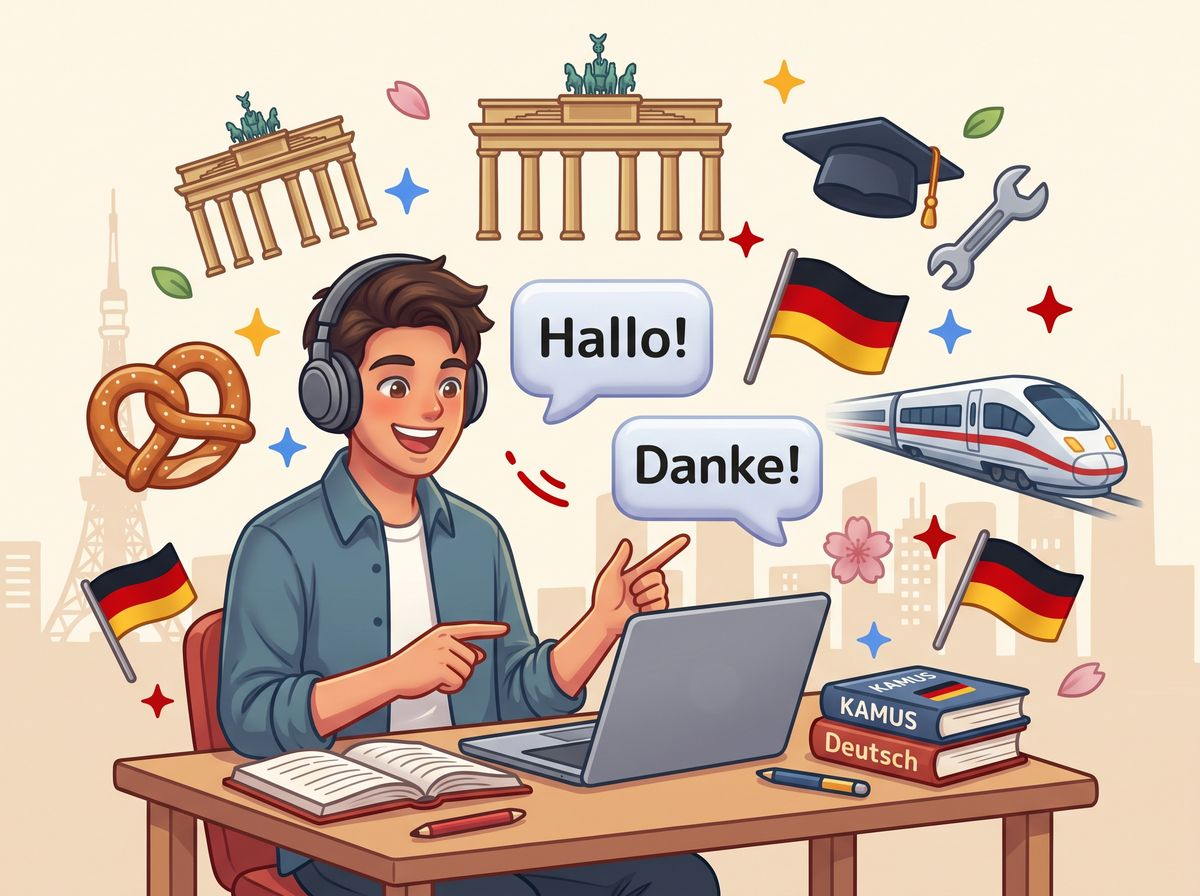
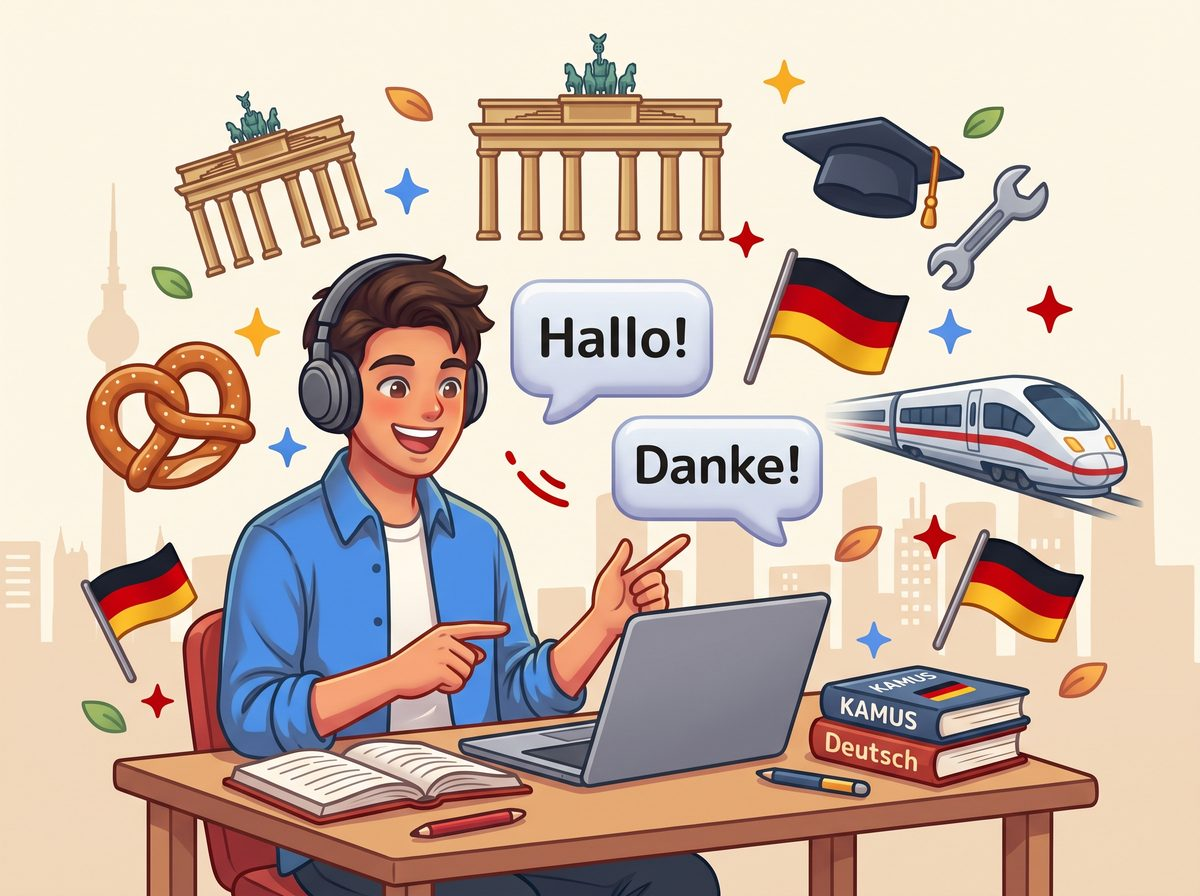
Ilustrasi baru: hero lebar di beranda, jalur ke Jepang, kurikulum, bidang kerja, persyaratan, paket rekaman, Jerman
Claude-Session: https://claude.ai/code/session_01DAJS4H1LZpkXpMjoxdFLH5

diff --git a/src/app/(site)/page.tsx b/src/app/(site)/page.tsx
@@ -37,9 +37,18 @@ const journey = [
 export default function Home() {
   return (
     <>
-      <section className="overflow-hidden bg-gradient-to-b from-red-50 via-white to-white">
-        <div className="mx-auto grid max-w-6xl items-center gap-10 px-4 py-12 sm:py-16 lg:grid-cols-[1fr_1.1fr]">
-          <div>
+      {/* Ilustrasi lebar: sisi kiri gambar kosong, jadi di layar lebar teks ditaruh di atasnya. */}
+      <section className="relative overflow-hidden bg-[#fff8ed]">
+        <Image
+          src={withBase("/images/hero-wide.jpg")}
+          alt="Ilustrasi tiga anak muda Indonesia belajar bahasa Jepang bersama lewat laptop dan HP"
+          width={1600}
+          height={893}
+          priority
+          className="absolute inset-y-0 right-0 hidden h-full w-auto max-w-none lg:block"
+        />
+        <div className="relative mx-auto max-w-6xl px-4 py-12 sm:py-16 lg:py-28">
+          <div className="lg:max-w-[46%]">
             <p className="font-jp text-red-700">日本語を、オンラインで。</p>
             <h1 className="mt-3 max-w-3xl text-4xl font-bold tracking-tight text-stone-900 sm:text-5xl">
               Kursus bahasa Jepang online dari nol sampai JLPT N3
@@ -64,12 +73,12 @@ export default function Home() {
             </div>
           </div>
           <Image
-            src={withBase("/images/hero.jpg")}
-            alt="Ilustrasi anak muda Indonesia belajar bahasa Jepang online bersama"
-            width={1200}
-            height={1007}
+            src={withBase("/images/hero-wide.jpg")}
+            alt=""
+            width={1600}
+            height={893}
             priority
-            className="w-full rounded-3xl shadow-xl shadow-red-900/10"
+            className="-mx-4 mt-4 aspect-[5/4] w-[calc(100%+2rem)] max-w-none object-cover object-right sm:mx-0 sm:w-full sm:aspect-[16/9] lg:hidden"
           />
         </div>
       </section>

diff --git a/src/components/info-page.tsx b/src/components/info-page.tsx
@@ -17,14 +17,24 @@ export function InfoPage({
   kicker: string;
   title: string;
   intro: ReactNode;
-  image?: { src: string; alt: string };
+  image?: { src: string; alt: string; width?: number; height?: number; wide?: boolean };
   children: ReactNode;
 }) {
+  const pic = image && (
+    <Image
+      src={withBase(image.src)}
+      alt={image.alt}
+      width={image.width ?? 1200}
+      height={image.height ?? 896}
+      priority
+      className={`w-full rounded-3xl ${image.wide ? "mt-8" : ""}`}
+    />
+  );
   const others = infoPages.filter((p) => p.href !== path);
   return (
     <>
       <section className="bg-gradient-to-b from-red-50 via-white to-white">
-        <div className={`mx-auto grid max-w-5xl items-center gap-8 px-4 py-12 ${image ? "md:grid-cols-[1fr_380px]" : ""}`}>
+        <div className={`mx-auto grid max-w-5xl items-center gap-8 px-4 py-12 ${image && !image.wide ? "md:grid-cols-[1fr_380px]" : ""}`}>
           <div>
             <Link href="/info" className="text-sm text-stone-500 hover:text-stone-800">
               ← Info
@@ -32,8 +42,9 @@ export function InfoPage({
             <p className="font-jp mt-5 text-sm font-medium text-red-700">{kicker}</p>
             <h1 className="mt-1 text-3xl font-bold tracking-tight text-stone-900 sm:text-4xl">{title}</h1>
             <div className="mt-3 max-w-2xl text-lg text-stone-600">{intro}</div>
+            {image?.wide && pic}
           </div>
-          {image && <Image src={withBase(image.src)} alt={image.alt} width={1200} height={896} priority className="w-full rounded-3xl" />}
+          {image && !image.wide && pic}
         </div>
       </section>
 

diff --git a/src/app/(site)/program/[slug]/page.tsx b/src/app/(site)/program/[slug]/page.tsx
@@ -134,7 +134,9 @@ async function RecordingPackageOffer({ slug }: { slug: string }) {
   const pkg = await getRecordingPackage(slug);
   if (!pkg) return null;
   return (
-    <div className="rounded-xl border border-stone-200 bg-white p-6">
+    <div className="overflow-hidden rounded-xl border border-stone-200 bg-white">
+      <Image src={withBase("/images/paket-rekaman.jpg")} alt="Ilustrasi belajar lewat video rekaman" width={1200} height={896} className="aspect-[2/1] w-full object-cover" />
+      <div className="p-6">
       <p className="text-sm font-medium text-red-700">Paket rekaman video</p>
       <h2 className="mt-1 text-lg font-semibold text-stone-900">Belajar mandiri, kapan saja</h2>
       <p className="mt-1 text-sm text-stone-600">
@@ -145,6 +147,7 @@ async function RecordingPackageOffer({ slug }: { slug: string }) {
       <Link href={`/daftar/${pkg.batchId}`} className="mt-3 inline-block rounded-lg bg-stone-900 px-4 py-2 text-sm font-semibold text-white hover:bg-stone-700">
         Beli paket rekaman
       </Link>
+      </div>
     </div>
   );
 }

diff --git a/src/app/(site)/bidang-kerja/page.tsx b/src/app/(site)/bidang-kerja/page.tsx
@@ -32,7 +32,7 @@ export default function SectorsPage() {
       kicker="特定技能の分野"
       title="Bidang kerja Tokutei Ginou"
       intro={`Tokutei Ginou (SSW) membuka ${sectors.length} bidang kerja. Semua butuh bahasa Jepang minimal JFT-Basic A2 atau JLPT N4, ditambah ujian keterampilan sesuai bidangnya.`}
-      image={{ src: "/images/program-jft.jpg", alt: "Ilustrasi pekerja muda di Jepang" }}
+      image={{ src: "/images/bidang-kerja.jpg", alt: "Ilustrasi pekerja muda Indonesia di bidang perawat lansia, restoran, pertanian, hotel, bengkel, dan konstruksi" }}
     >
       <Section title="Daftar bidang dan kosakata awalnya" subtitle="Di kelas, kosakata kerja seperti ini dilatih lewat percakapan supaya siap saat wawancara.">
         <div className="grid gap-4 sm:grid-cols-2 lg:grid-cols-3">

diff --git a/src/app/(site)/cara-belajar/page.tsx b/src/app/(site)/cara-belajar/page.tsx
@@ -1,5 +1,7 @@
 import type { Metadata } from "next";
+import Image from "next/image";
 import { InfoPage, Section } from "@/components/info-page";
+import { withBase } from "@/lib/base-path";
 
 export const metadata: Metadata = {
   title: "Cara belajar",
@@ -56,6 +58,13 @@ export default function HowPage() {
       </Section>
 
       <Section title="Pilih paket">
+        <Image
+          src={withBase("/images/paket-rekaman.jpg")}
+          alt="Ilustrasi belajar lewat video rekaman di rumah, kapan saja"
+          width={1200}
+          height={896}
+          className="mb-4 w-full rounded-3xl sm:max-w-md"
+        />
         <div className="grid gap-4 md:grid-cols-2">
           {packages.map((p) => (
             <div key={p.name} className="rounded-2xl border border-stone-200 bg-white p-6">

diff --git a/src/app/(site)/jalur-ke-jepang/page.tsx b/src/app/(site)/jalur-ke-jepang/page.tsx
@@ -54,7 +54,7 @@ export default function PathPage() {
       kicker="日本への道"
       title="Jalur ke Jepang dan timeline sampai berangkat"
       intro="Ada tiga jalur yang paling umum dari Indonesia. Semuanya dimulai dari bahasa Jepang, dan dari nol sampai berangkat biasanya butuh sekitar satu tahun."
-      image={{ src: "/images/program-jft.jpg", alt: "Ilustrasi persiapan berangkat kerja ke Jepang" }}
+      image={{ src: "/images/jalur-ke-jepang.jpg", alt: "Ilustrasi perjalanan dari belajar, dokumen, wawancara, visa, sampai terbang ke Jepang", width: 1200, height: 670, wide: true }}
     >
       <Section title="Tiga jalur yang umum">
         <div className="grid gap-4 md:grid-cols-3">

diff --git a/src/app/(site)/kurikulum/page.tsx b/src/app/(site)/kurikulum/page.tsx
@@ -70,7 +70,7 @@ export default function CurriculumPage() {
       kicker="カリキュラム"
       title="Kurikulum dan lama kursus"
       intro="Belajar naik level bertahap. Dari belum bisa hiragana sampai N4 sekitar 7 bulan, dan sampai N3 sekitar 13 bulan."
-      image={{ src: "/images/program-n4.jpg", alt: "Ilustrasi belajar kanji dan tata bahasa" }}
+      image={{ src: "/images/kurikulum.jpg", alt: "Ilustrasi anak muda menaiki tangga level bahasa Jepang menuju Jepang" }}
     >
       <Section title="Berapa lama sampai level tertentu?" subtitle="Dihitung dari nol, kalau ikut kelas secara rutin.">
         <div className="grid gap-3 sm:grid-cols-4">

diff --git a/src/app/(site)/persyaratan/page.tsx b/src/app/(site)/persyaratan/page.tsx
@@ -24,6 +24,7 @@ export default function RequirementsPage() {
       kicker="応募条件"
       title="Persyaratan umum ke Jepang"
       intro="Ini syarat yang paling sering diminta. Syarat pastinya ditentukan oleh perusahaan, LPK, atau sekolah yang kamu tuju."
+      image={{ src: "/images/persyaratan.jpg", alt: "Ilustrasi menyiapkan paspor, ijazah, pas foto, dan checklist dokumen" }}
     >
       <Section title="Syarat yang sering diminta">
         <div className="grid gap-4 sm:grid-cols-2 lg:grid-cols-3">
